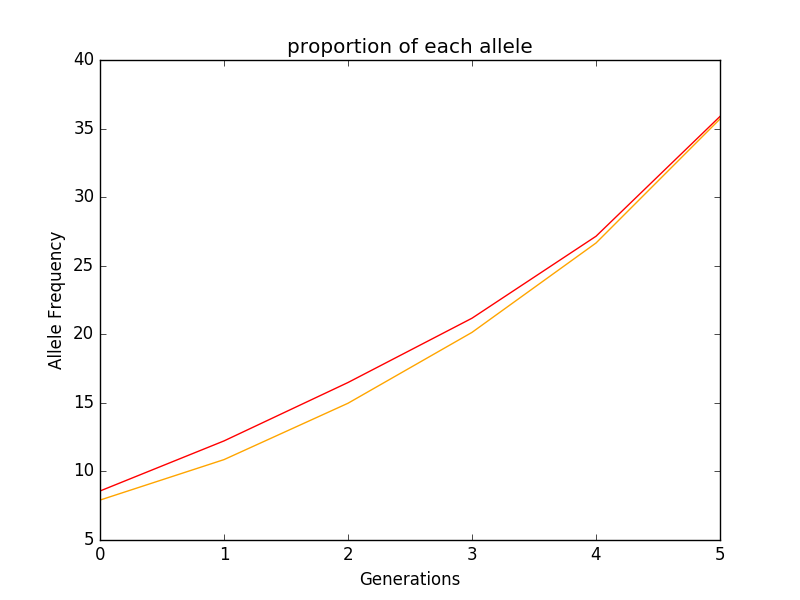
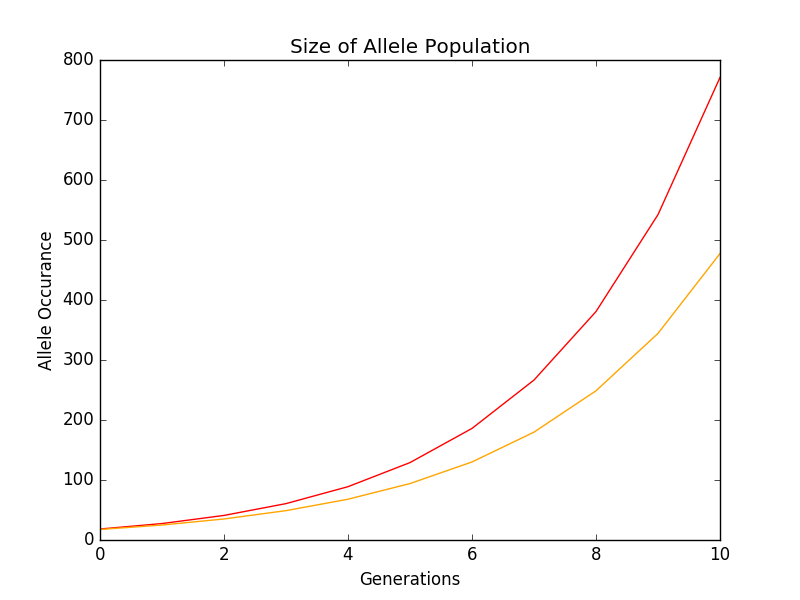
improved documentation, graph labeling

diff --git a/hardyweinberg.py b/hardyweinberg.py
@@ -1,7 +1,10 @@
 """
 @author Megan Fass, Kieran Kitchener
 
-T2 Take One: inital equations
+T2 Project
+Hardy Weinberg Simulation
+
+blahblahblahblah better documentation here!!
 """
 import sys
 import numpy as np
@@ -9,13 +12,11 @@ import matplotlib.pyplot as plt
 
 # for P[Aa-aa]
 
-
 def eq1(w, t, lamed):
     prob = (w * (1 + t)) / lamed
     return prob
 
 # for the case of P[Aa-Aa]
-
 
 def eq2(K, lamed):
     prob = (K) / lamed
@@ -23,13 +24,11 @@ def eq2(K, lamed):
 
 # case of of P[AA-AA]
 
-
 def eq3(Q, lamed):
     prob = (Q) / lamed
     return prob
 
 # case of P[AA-Aa]
-
 
 def eq4(J, lamed):
     prob = (J) / lamed
@@ -37,13 +36,11 @@ def eq4(J, lamed):
 
 # case of P[AA-aa]
 
-
 def eq5(v, z, lamed):
     prob = (v * (1 + z)) / lamed
     return prob
 
 # case of p[aa-aa]
-
 
 def eq6(u, p, lamed):
     prob = (u * (1 + p)) / lamed
@@ -51,30 +48,30 @@ def eq6(u, p, lamed):
 
 # lambda is a reserved word; combines all populations including level of benefit of diploid pairs with a recessive partner
 
-
 def lamed(u, p, v, t, z, w, K, Q, J, N):
     l = u * (1 + p) + v * (1 + z) + w * (1 + t) + K + Q + J
     return l
 
+# updates the population size
 
-def popChange(N, t):
+def popChange(N):
     N_t = N * 2
     return N_t
 
-
+# The entire program takes 9 inputs. 
 # initial pop. of each diploid pair; pos integers
 # u = ini. pop of [aa-aa]
-u = float(sys.argv[1])
+u = int(sys.argv[1])
 # v = ini. pop of [AA-aa]
-v = float(sys.argv[2])
+v = int(sys.argv[2])
 # w = [Aa-aa]
-w = float(sys.argv[3])
+w = int(sys.argv[3])
 # ini pop. [AA-AA]
-K = float(sys.argv[4])
+K = int(sys.argv[4])
 # [ AA-Aa]
-Q = float(sys.argv[5])
+Q = int(sys.argv[5])
 # [Aa-Aa]
-J = float(sys.argv[6])
+J = int(sys.argv[6])
 
 # preferability; range is from -1 to 1
 # pref of u
@@ -82,33 +79,37 @@ p = float(sys.argv[7])
 # pref of v
 z = float(sys.argv[8])
 # pref of w
-t = float(sys.argv[9])
+r = float(sys.argv[9])
 
-gen = 5
+
+# number of generations to iterate for; could be an input but for now it is simplest to leave it hard-coded. 
+
+
+gen = 10
 
 
 w_list = list()
-w_list.insert(0, w)
+# w_list.insert(0, w)
 w_prob = list()
 
 K_list = list()
-K_list.insert(0, K)
+# K_list.insert(0, K)
 K_prob = list()
 
 Q_list = list()
-Q_list.insert(0, Q)
+# Q_list.insert(0, Q)
 Q_prob = list()
 
 J_list = list()
-J_list.insert(0, J)
+# J_list.insert(0, J)
 J_prob = list()
 
 v_list = list()
-v_list.insert(0, v)
+# v_list.insert(0, v)
 v_prob = list()
 
 u_list = list()
-u_list.insert(0, u)
+# u_list.insert(0, u)
 u_prob = list()
 
 N_0 = u + v + w + K + Q + J
@@ -126,7 +127,7 @@ N = N_0
 t = 1
 while n <= gen:
     print ""
-    h = lamed(u, p, v, z, t, w, K, Q, J, N_0)
+    h = lamed(u, p, v, z, r, w, K, Q, J, N_0)
 
     print "Gen" + str(n)
     prob1 = eq1(w, z, h)
@@ -137,7 +138,7 @@ while n <= gen:
     Q_prob.append(prob3)
     prob4 = eq4(J, h)
     J_prob.append(prob4)
-    prob5 = eq5(v, t, h)
+    prob5 = eq5(v, r, h)
     v_prob.append(prob5)
     prob6 = eq6(u, p, h)
     u_prob.append(prob6)
@@ -153,7 +154,7 @@ while n <= gen:
     total = prob1 + prob2 + prob3 + prob4 + prob5 + prob6
 
     print "total prob: " + str(total) + " for population " + str(N)
-    N = popChange(N, t)
+    N = popChange(N)
     N_graph.append(N)
     n += 1
     t += 1
@@ -174,30 +175,30 @@ while n <= gen:
     aa = (w/2) + (u/2) + (v/2)
     Aa = (w/2) + (K/2) + (J/2)
     AA = (K/2) + (v/2) + (Q/2)
+
     a = np.sqrt(aa) + np.sqrt(Aa) #Frequency of 'a' allele
     littleA.append(a)
     A = np.sqrt(AA) + np.sqrt(Aa)
     bigA.append(A)
 
-print w_list[5]
-print u_list[5]
-print v_list[5]
-#aa = (w/2) + (u/2) + (v/2)
-#Aa = (w/2) + (K/2) + (J/2)
-#AA = (K/2) + (v/2) + (Q/2)
-#a = np.sqrt(aa) + np.sqrt(Aa) #Frequency of 'a' allele
-#A = np.sqrt(AA) + np.sqrt(Aa) #Frequency of 'A' allele
-# SUPER IMPORTANT: After running, if everything works, I want you to hashtag row 175 and unhashtag the bottom equation to see if they give the same results. If not, message me.
+# print w_list[5]
+# print u_list[5]
+# print v_list[5]
+# aa = (w/2) + (u/2) + (v/2)
+# Aa = (w/2) + (K/2) + (J/2)
+# AA = (K/2) + (v/2) + (Q/2)
+# a = np.sqrt(aa) + np.sqrt(Aa) #Frequency of 'a' allele
+# A = np.sqrt(AA) + np.sqrt(Aa) #Frequency of 'A' allele
 # Aa = 2*(a)*(A)
+
+
 print "frequency of aa individuals: " + str(aa)
 print "frequency of Aa individuals: " + str(Aa)
 print "frequency of AA individuals: " + str(AA)
 print "frequency of 'a' allele:" + str(a)
 print "frequency of 'A' allele:" + str(A)
-# plt.xlabel('Time(s)')
-# plt.ylabel('Conc (M)')
-plt.title('probability of diploid mating pairs occuring in subsequent generatrions')
-# plt.axis([0,tmax,0,1.0])
+
+plt.title('Probability of Diploid Mating Pairs Occuring in Subsequent Generatrions')
 plt.plot(w_prob, linestyle=':', color='red')
 plt.plot(K_prob, 'red')
 plt.plot(Q_prob, 'green')
@@ -208,21 +209,21 @@ plt.plot(total, 'black')
 plt.savefig("pair probabilities")
 plt.show()
 
-plt.title('population change of diplod pairs')
+plt.title('Population of each Diplod Pair over Time ')
 plt.plot(w_list, linestyle=':', color='red')
 plt.plot(K_list, 'red')
 plt.plot(Q_list, 'green')
 plt.plot(J_list, 'blue')
 plt.plot(v_list, linestyle=':', color='green')
 plt.plot(u_list, linestyle=':', color='blue')
-plt.plot(N_graph, 'black')
+# plt.plot(N_graph, 'black')
 plt.savefig("population")
 plt.show()
 
-plt.title('proportion of each allele')
+plt.title('Size of Allele Population')
 plt.plot(littleA, 'red')
 plt.plot(bigA, 'orange')
-plt.ylabel("Allele Frequency")
+plt.ylabel("Allele Occurance")
 plt.xlabel("Generations")
 plt.savefig("alleles")
 plt.show()
